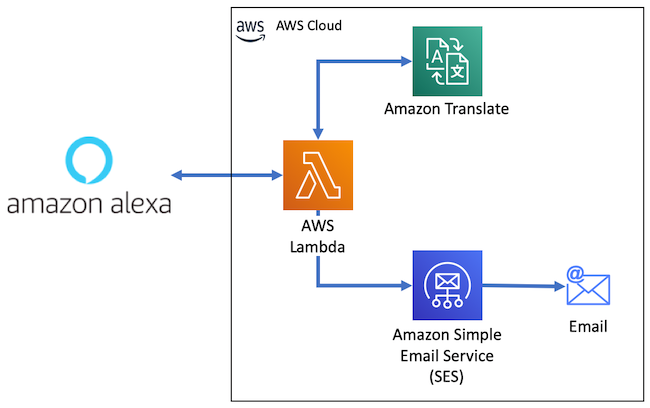
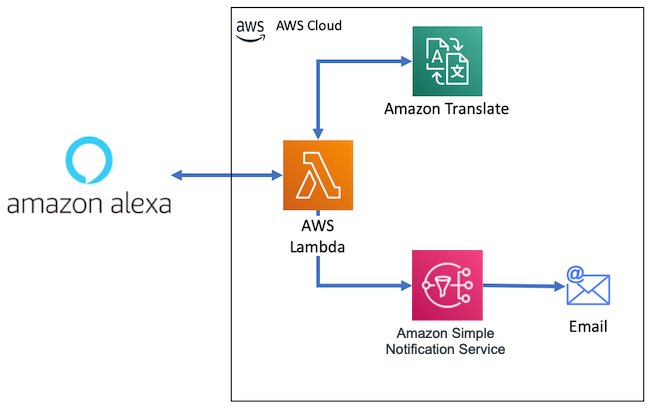
More SMS related changes

Changed region(s): [[0.5846, 0.5882, 0.8, 0.9412]]

diff --git a/SMSDictationSkill.md b/SMSDictationSkill.md
@@ -1,0 +1,48 @@
+# Part 2 - SMS dictation skill
+
+For this part we are going to use the basic skill we have created in [Part 1 - Create your first skill](BuildYourFirstSkill.md). If you did not complete this part, please do it now and come back to part 2 later.
+
+## Extending our current skills
+As mentioned before, we will use the exiting skill and intents you should have from step 1.
+
+For SMS dictation, we will need to extend the basic ```GetMyName``` intent to deal with multiple Utterances, Slots and additional components (such as our backend endpoint to process the SMS).
+
+### Rename your intent
+As a first step, let's rename the intent to ```SendSMS```. Click on the intent name and change it. Save your model to apply changes.
+
+### Change Sample Utterances
+Our original intent was all about the user name. We need to change our current intent to support session initiations related to SMS sending.
+Update your ```Sample Utterances``` to support new dialogs.
+You should add utterances such as:
+- I would like to send an SMS
+- Send SMS
+- Send message
+- Etc.
+
+### Adding additional slots
+Our SMS skill will need several slots to send our message:
+- Sender name - We will use the already available ```myName``` slot.
+- Recipient name (```toName```)
+- Recipient phone number (```toPhone```)
+- SMS body (```body```)
+
+Go and add the missing slots and define slot types, prompts and user utterances.
+
+At the end of the process you should have something like the next screenshot in your Intent Slots list:
+![Intent Slots](screenshots/Screen5.png)
+
+The ```AMAZON.SearchQuery``` slot type is used for open text inputs in our skill.
+
+At this stage you can use the new slots to update your main ```Sample Utterances```to use those slots in customers request. You should add utterances such as 'I would like to send an SMS to ```{toName}```'
+
+### Intent Confirmation
+Since we want to make sure Alexa got the right SMS details before sending it, we will use ```Intent Confirmation``` to verify the input before sending it out.
+
+To do that, turn on ```Intent Confirmation``` and define a prompt, using the different slots that Alexa should say before sending out the SMS.
+
+## Save, Build and Profile
+Save your model (if you did not already) and run your Build.
+
+Test your ```SendSMS``` intent and make sure you can perform a dialog with the skill until you get the Intent confirmation.
+
+Ready to move on? [Click here - Part 3 >>](AddTranslation.md)

diff --git a/README.md b/README.md
@@ -1,7 +1,7 @@
 # Alexa Lambda Workshop
-In this workshop we will build an Amazon Alexa skill, backed by an [AWS Lambda](https://aws.amazon.com/lambda/), using multiple AWS services such as Amazon [SES](https://aws.amazon.com/ses/) and [Amazon Translate](https://aws.amazon.com/translate/).
+In this workshop we will build an Amazon Alexa skill, backed by an [AWS Lambda](https://aws.amazon.com/lambda/), using multiple AWS services such as Amazon [SNS](https://aws.amazon.com/sns/) and [Amazon Translate](https://aws.amazon.com/translate/).
 
-At the end of the workshop, you will have a voice skill that enables you to dictate a short email to Alexa and send it to the recipient, using [Amazon Simple Email Service](https://aws.amazon.com/ses/), in the original language (English) or translate it to one of the 25 languages, supported by [Amazon Translate](https://aws.amazon.com/translate/).
+At the end of the workshop, you will have a voice skill that enables you to dictate a short message to Alexa and send it to the recipient via SMS, using [Amazon Simple Notification Service](https://aws.amazon.com/sns/), in the original language (English) or translate it to one of the 25 languages, supported by [Amazon Translate](https://aws.amazon.com/translate/).
 
 ![Architecture](screenshots/Architecture.png)
 
@@ -10,10 +10,11 @@ This workshop has 3 parts:
 [Part 1 - Create your first skill](BuildYourFirstSkill.md)
 - A basic setup of your account on Alexa Developer Console and first skill setup.
 
-[Part 2 - Email dictation skill](EmailDictationSkill.md)
+[Part 2 - SMS dictation skill](SMSDictationSkill.md)
+- Extend your skill to get additional inputs from the user.
 - Connect your skill to an AWS backend using AWS Lambda.
 
 [Part 3 - Add translation capabilities to your skill](AddTranslation.md)
-- Extend your skill to be able to translate your email based on the desired target language.
+- Extend your skill to be able to translate your SMS based on the desired target language.
 
 [Start Part 1 >>](BuildYourFirstSkill.md)

diff --git a/BuildYourFirstSkill.md b/BuildYourFirstSkill.md
@@ -34,7 +34,7 @@ Intents are actions your skill can perform. Every skill comes with some default 
 
 We will add our first basic intent that should get out name as an input and store it for future use.
 
-Click on ```Add Intent```, name your custom intent ```GetMyName``` and then click ```Create custom intent```.
+Click on ```Add Intent``` name your custom intent ```GetMyName``` and then click ```Create custom intent```.
 
 #### Sample Utterances
 Alexa needs some sample utterances to trigger a specific intent in your skill. Provide some samples that are likely to be used by your customers to activate this intent. For example you can use ```Let me tell you my name``` or anything similar. You can (and should) have more than one sample utterance to cover different scenarios.
@@ -62,4 +62,4 @@ When the build is done, you should be able to test your intents using the ```Utt
 
 Test your name intent and make sure you can perform a dialog with the skill, that will eventually save your name in the ```myName``` slot.
 
-Ready to move on? [Click here - Part 2 >>](EmailDictationSkill.md)
+Ready to move on? [Click here - Part 2 >>](SMSDictationSkill.md)
